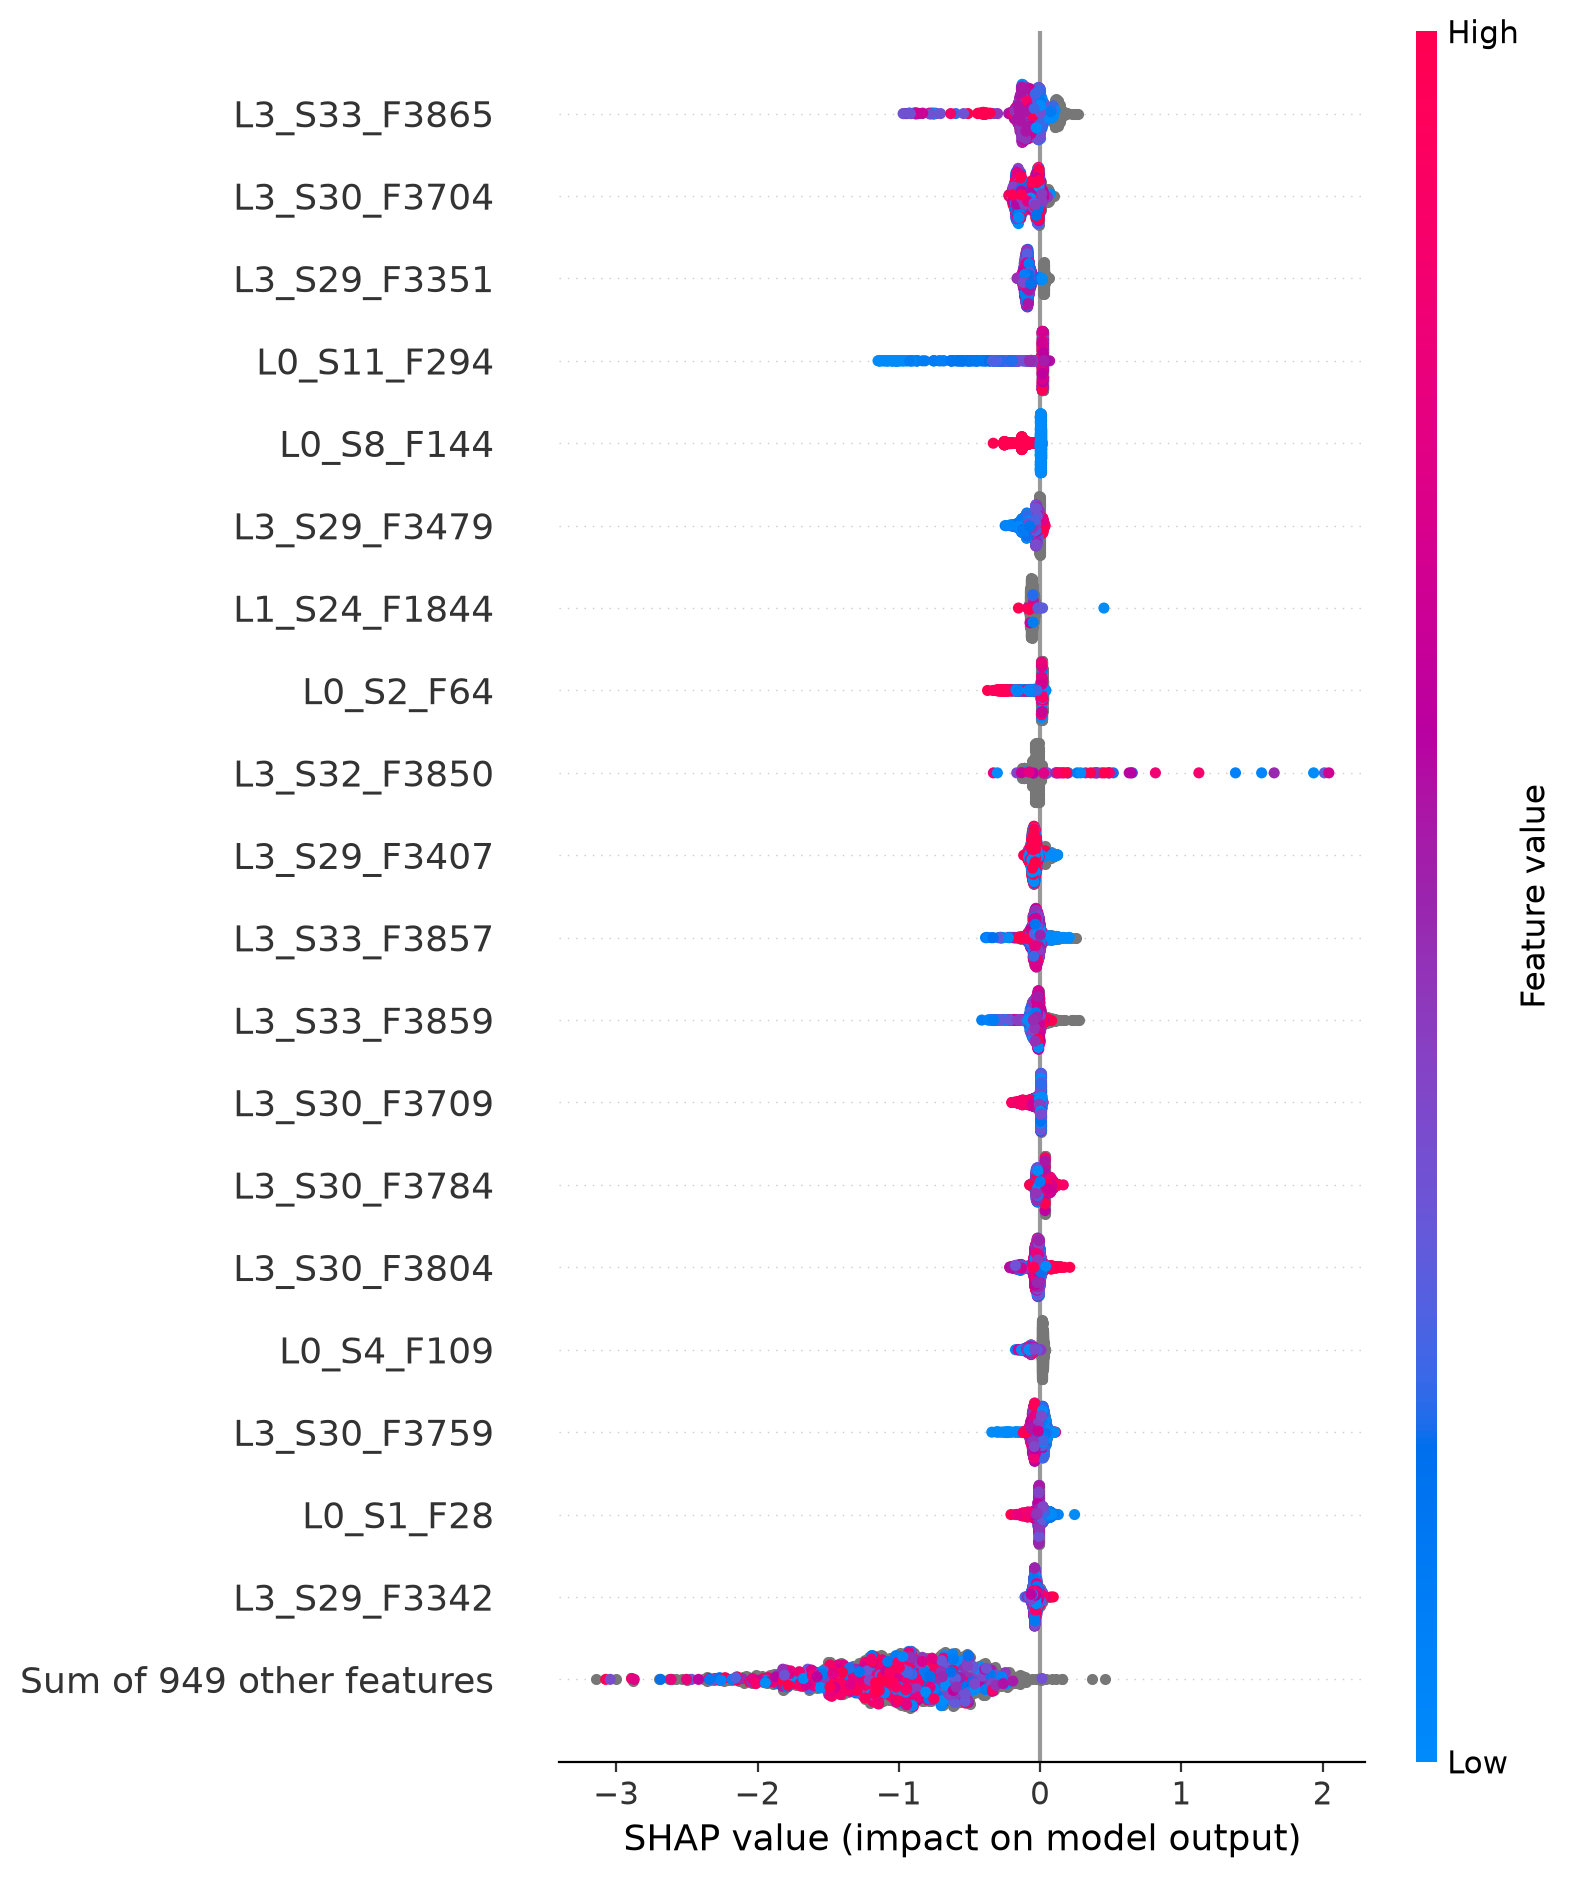
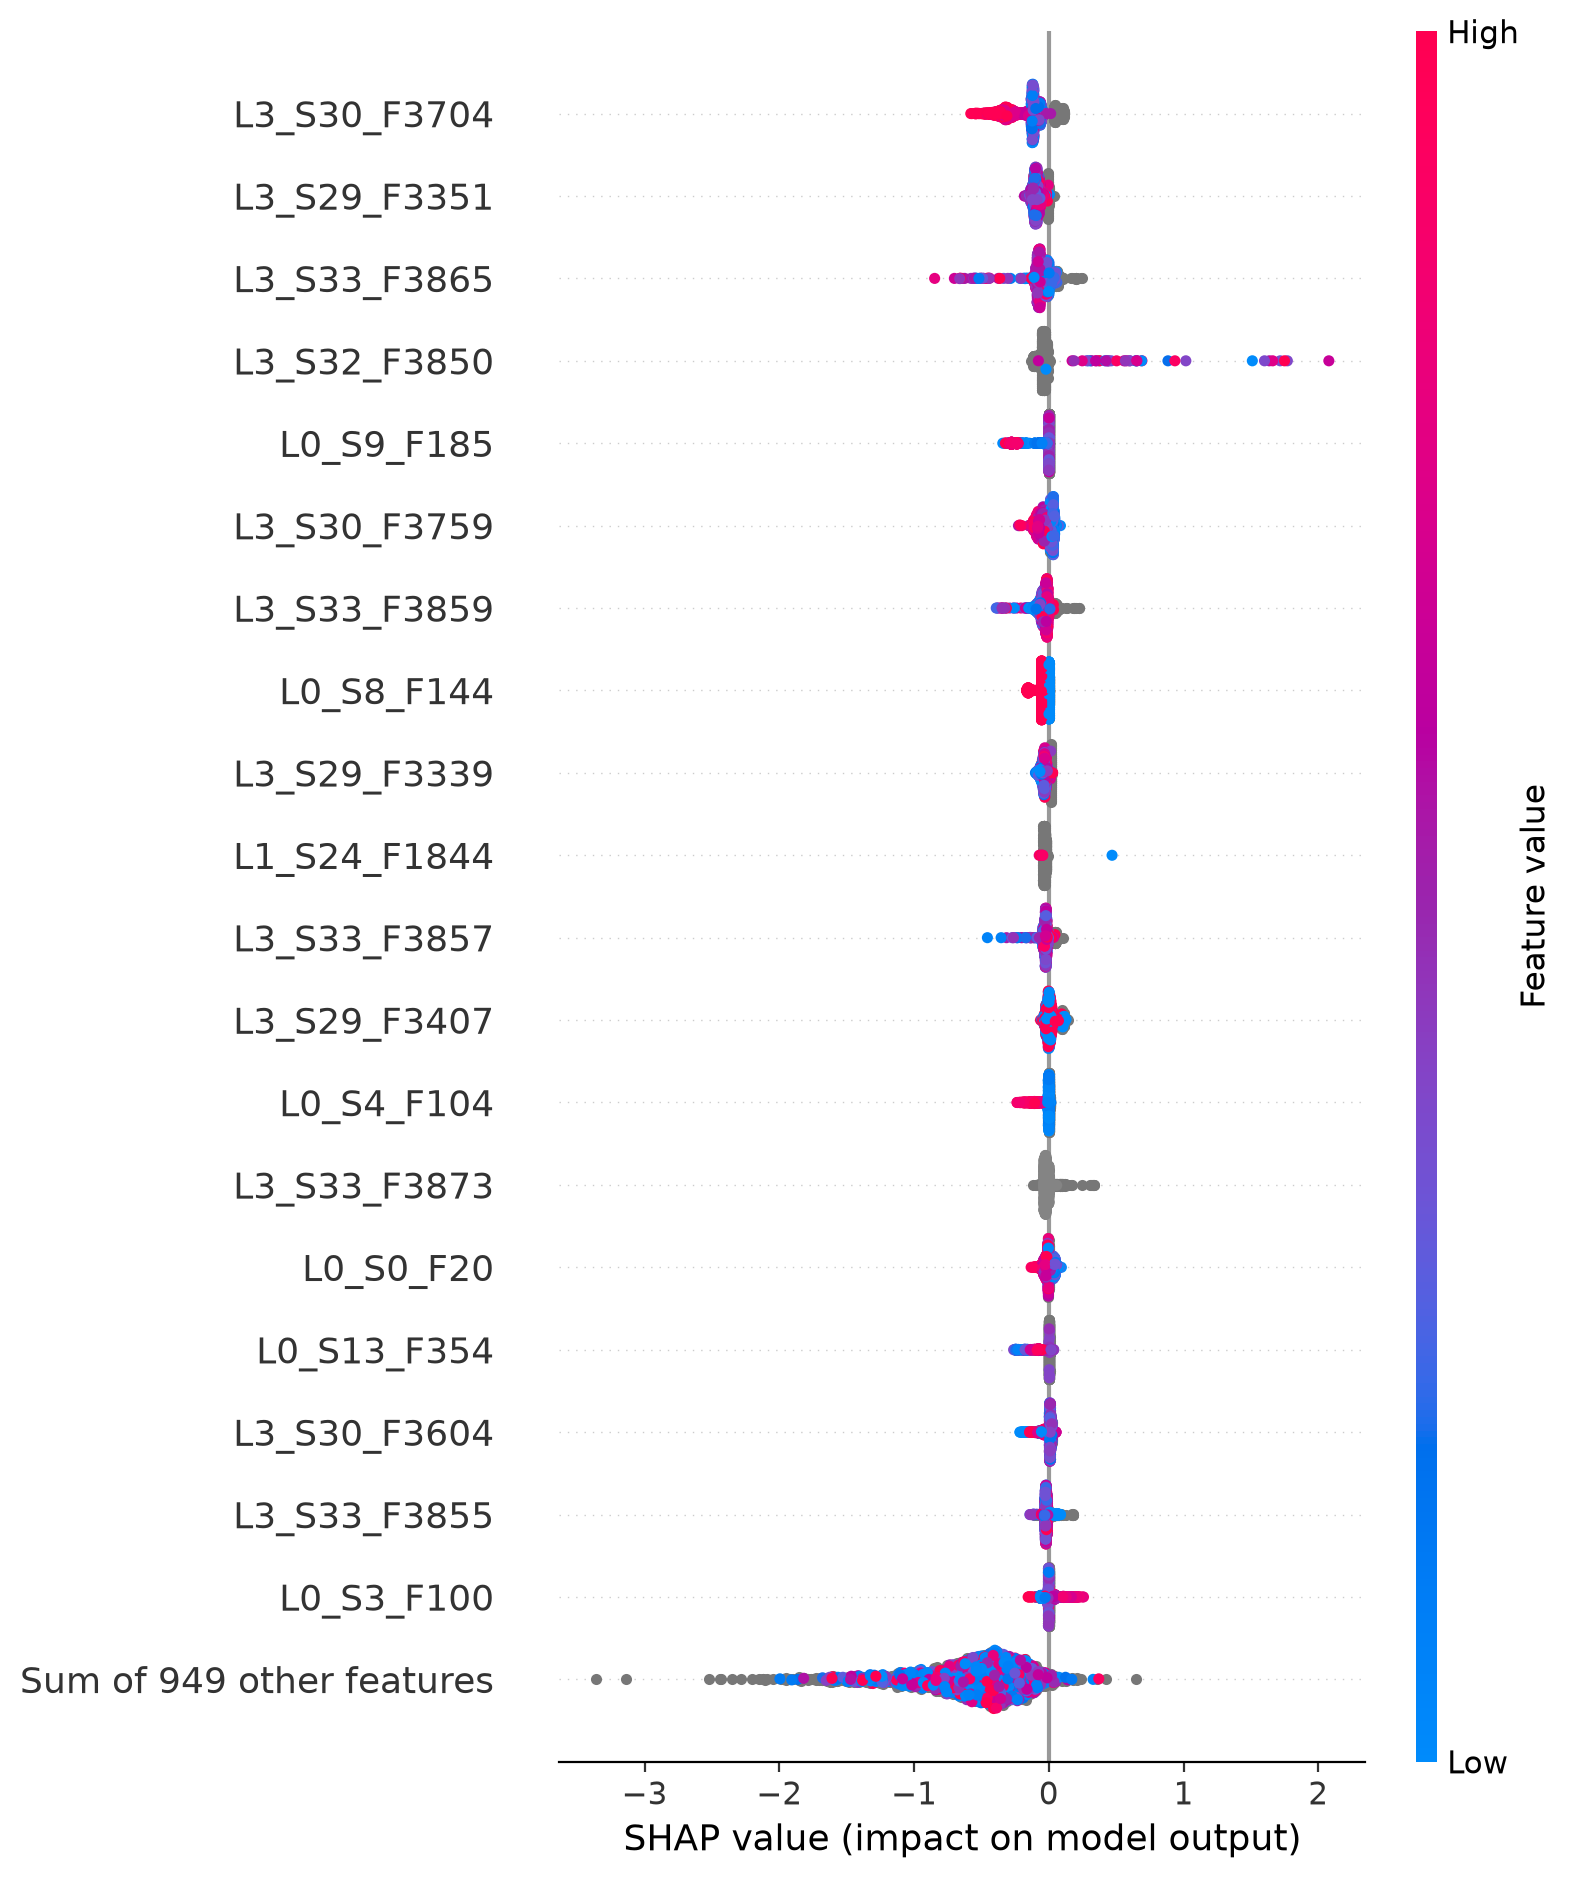
Train the main model on all 1.18M parts
- train_xgboost.py: all rows (float32 load), 400k learning-curve point,
  saves the final model to models/ (git-ignored)
- New forward-in-time headline, scored on every part: 7.3x lift
  (4.7-12.5x) and 14% top-1% recall, replacing 8.7x / 15%; the first
  500k rows turned out to be an easier test subset
- README updated with the new numbers, runtime and RAM needs

diff --git a/src/train_xgboost.py b/src/train_xgboost.py
@@ -1,7 +1,9 @@
+import json
 from pathlib import Path
 import matplotlib
 matplotlib.use("Agg")
 import matplotlib.pyplot as plt
+import numpy as np
 import pandas as pd
 import shap
 
@@ -23,13 +25,15 @@ PROJECT_ROOT = Path(__file__).resolve().parents[1]
 DATA_PATH = PROJECT_ROOT / "data" / "train_numeric.csv"
 PLOTS_DIR = PROJECT_ROOT / "results" / "plots"
 PLOTS_DIR.mkdir(parents=True, exist_ok=True)
+MODELS_DIR = PROJECT_ROOT / "models"
 
 
 # ============================================================
 # CONFIGURATION
 # ============================================================
 
-NUM_ROWS = 500_000
+# None = all 1,183,747 labelled parts (earlier runs used the first 500_000)
+NUM_ROWS = None
 RANDOM_STATE = 42
 
 # Forward-in-time split: cut the production timeline into 5 equal
@@ -71,9 +75,15 @@ def create_model(y):
 
 print("Loading data...")
 
+# float32 halves memory. XGBoost uses float32 internally anyway,
+# so the results are identical.
+header = pd.read_csv(DATA_PATH, nrows=0).columns
+feature_dtypes = {col: np.float32 for col in header if col.startswith("L")}
+
 df = pd.read_csv(
     DATA_PATH,
     nrows=NUM_ROWS,
+    dtype=feature_dtypes,
 )
 
 print("Rows loaded:", len(df))
@@ -154,6 +164,7 @@ requested_sizes = [
     50_000,
     100_000,
     200_000,
+    400_000,  # about what the earlier 500k-row runs trained on
 ]
 
 # Only keep sizes smaller than the entire training set,
@@ -325,6 +336,8 @@ print("==============================")
 
 print("Total test failures:", total_failures)
 
+inspection_recall = {}
+
 for pct in [0.01, 0.02, 0.05, 0.10]:
 
     number_to_inspect = int(
@@ -348,6 +361,8 @@ for pct in [0.01, 0.02, 0.05, 0.10]:
         failures_caught
         / number_to_inspect
     )
+
+    inspection_recall[pct] = recall
 
     print(
         f"Top {pct * 100:.0f}% inspected | "
@@ -615,3 +630,37 @@ learning_curve_df.to_csv(
     PROJECT_ROOT / "results" / "learning_curve.csv",
     index=False
 )
+
+
+# ============================================================
+# 16. SAVE THE MODEL
+#
+# The final model was trained only on parts that finished
+# before the most recent test period, so it can honestly score
+# that period's parts later (e.g. from an API).
+# ============================================================
+
+MODELS_DIR.mkdir(parents=True, exist_ok=True)
+
+final_model.save_model(MODELS_DIR / "xgboost_final.ubj")
+
+metadata = {
+    "training_parts": len(X_train),
+    "test_parts": len(X_test),
+    # Date units; 1 unit = 10 hours (see production_data.py)
+    "test_period_start": float(part_times["start"].iloc[test_rows].min()),
+    "pr_auc": float(pr_auc),
+    "lift": float(pr_auc / baseline_pr_auc),
+    "roc_auc": float(roc_auc),
+    "top_1pct_recall": float(inspection_recall[0.01]),
+    "lift_across_test_periods": {
+        "mean": float(period_df["Lift"].mean()),
+        "min": float(period_df["Lift"].min()),
+        "max": float(period_df["Lift"].max()),
+    },
+}
+
+with open(MODELS_DIR / "xgboost_final_metadata.json", "w") as f:
+    json.dump(metadata, f, indent=2)
+
+print("\nSaved model: models/xgboost_final.ubj (+ xgboost_final_metadata.json)")

diff --git a/README.md b/README.md
@@ -13,7 +13,7 @@ Every result below is measured **forward in time**: models train only on parts w
 
 | | Result |
 |---|---|
-| **Final-QC triage** | XGBoost on the full measurement record reaches **8.7× PR-AUC lift** over random ranking on average (4.4–16.3× across four test periods). Inspecting the 1% highest-risk parts catches **15% of failures** (8–22%). |
+| **Final-QC triage** | XGBoost on the full measurement record, trained on up to 944k parts, reaches **7.3× PR-AUC lift** over random ranking on average (4.7–12.5× across four test periods). Inspecting the 1% highest-risk parts catches **14% of failures** (11–20%). |
 | **Early warning from measurements** | **None.** Measurements taken before the final line (L3) predict nothing about future parts. The usable signal arrives at L3, in a part's last ~18 minutes on the line. |
 | **Batch-mate alert** | When a part fails final QC, the parts that entered production with it and are still on the line fail more often. Flags raised at least 3 days after entry mark **0.76% of production at 4.6× the average failure rate**, about **4 days** before final QC. This only works while entry line L1 is running. |
 | **Production campaigns** | The factory alternates between two entry lines, L0 and L1. Failure rates on both rise and fall together (r = 0.64), and the model ranks L1-entry parts about twice as well (14× vs 6× lift). |
@@ -32,13 +32,15 @@ Every result below is measured **forward in time**: models train only on parts w
 
 ## Evaluation
 
-Failures come in bursts. If the part that entered just before a given part failed, that part fails about 6% of the time instead of 0.58%, and weekly failure rates range from 0.09% to 2.24%. Measurements also carry a fingerprint of when a part was made: a model can tell alternating 4-week periods apart with ROC-AUC 0.96–0.98. A random split therefore lets a model recognise bad weeks instead of bad parts.
+Failures come in bursts. If the part that entered just before a given part failed, that part fails about 6% of the time instead of 0.58%, and weekly failure rates range from 0.09% to 2.24%. Measurements also carry a fingerprint of when a part was made: a model can tell alternating 4-week periods apart with ROC-AUC 0.96–0.98. A random split therefore lets a model recognise bad weeks instead of bad parts. On the first 500k rows, with the same data for both splits:
 
 | Final-QC model | Random split | Forward in time |
 |---|---|---|
 | PR-AUC lift | 20.0× | 8.7× (mean of 4 test periods) |
 | Failures caught in the top 1% | 26.6% | 15.0% |
 | …using only measurements from before L3 | 12.1% | 0.8% |
+
+The headline numbers above use all 1.18M parts. The first 500k rows turned out to be an easier test set than the rest: the same model scores about 9.9× lift on them versus 5.9× on the other parts, so numbers based on the first 500k rows run somewhat high.
 
 `forward_folds()` in [`src/production_data.py`](src/production_data.py) cuts the timeline into five equal blocks and tests on blocks 2–5, each time training on parts that finished before the block began. PR-AUC lift is PR-AUC divided by the failure rate, which is what random ranking would score. Model outputs are **risk scores for ranking**, not calibrated probabilities.
 
@@ -58,7 +60,7 @@ Run from the project root, for example `.venv/bin/python src/train_xgboost.py`.
 
 | Script | What it does | Runtime |
 |---|---|---|
-| [`train_xgboost.py`](src/train_xgboost.py) | Main model: learning curve, final model, inspection-capacity table, results per test period, SHAP explanations | ~1.5 min |
+| [`train_xgboost.py`](src/train_xgboost.py) | Main model: learning curve, final model, inspection-capacity table, results per test period, SHAP explanations; saves the model to `models/` | ~3 min |
 | [`analyze_dates.py`](src/analyze_dates.py) | Decodes the timestamps: station order, time unit, timing per station, routes, weekly failure rates | ~20 s |
 | [`early_warning.py`](src/early_warning.py) | Trains the model on measurements up to each point in production; compares random split, forward in time and weekly retraining | ~12 min |
 | [`burst_monitoring.py`](src/burst_monitoring.py) | How long failure clustering lasts; a line-level QC monitor; the batch-mate alert | ~30 s |
@@ -66,7 +68,7 @@ Run from the project root, for example `.venv/bin/python src/train_xgboost.py`.
 | [`campaign_analysis.py`](src/campaign_analysis.py) | L0/L1 entry-line campaigns and the model by entry line | ~2 min |
 | [`eda.py`](src/eda.py) | First exploration on a 10k-row sample; reads `train_numeric.csv` from the current directory | — |
 
-Runtimes are from a Mac with 18 CPU cores and 64 GB of RAM. Models use the first 500k rows; analyses that only need timestamps use all 1.18M rows.
+Runtimes are from a Mac with 18 CPU cores and 64 GB of RAM. `train_xgboost.py` uses all 1.18M parts and peaks at about 26 GB of RAM (set `NUM_ROWS = 500_000` in the script to use less). The other model scripts use the first 500k rows; analyses that only need timestamps use all 1.18M.
 
 Shared code: [`production_data.py`](src/production_data.py) (loaders, station helpers, forward-in-time folds) and [`qc_monitor.py`](src/qc_monitor.py) (which QC results were known at a given time).
 
